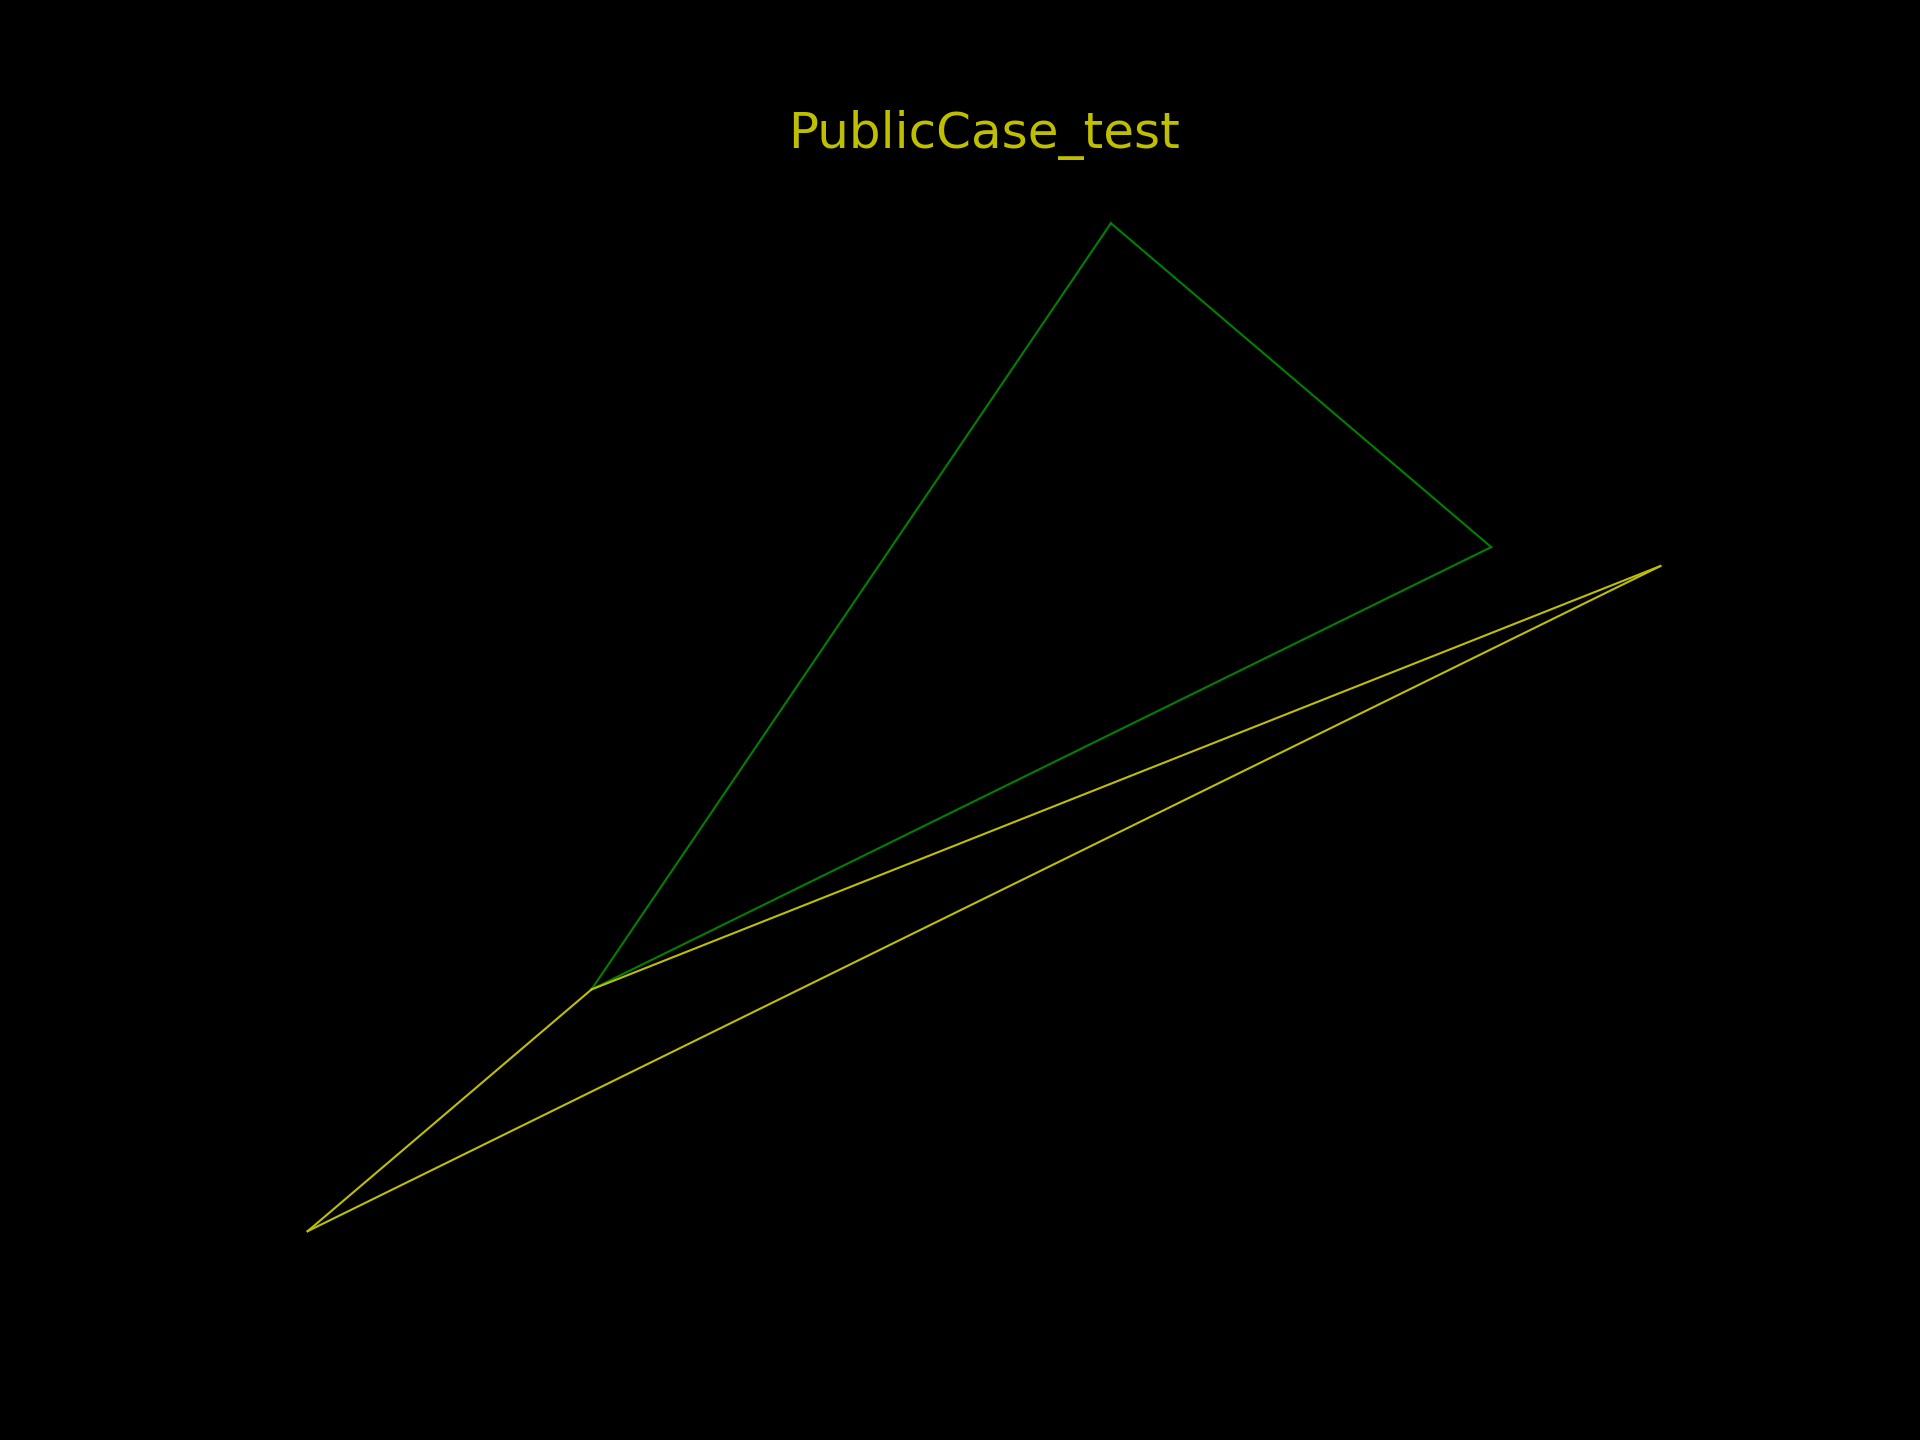
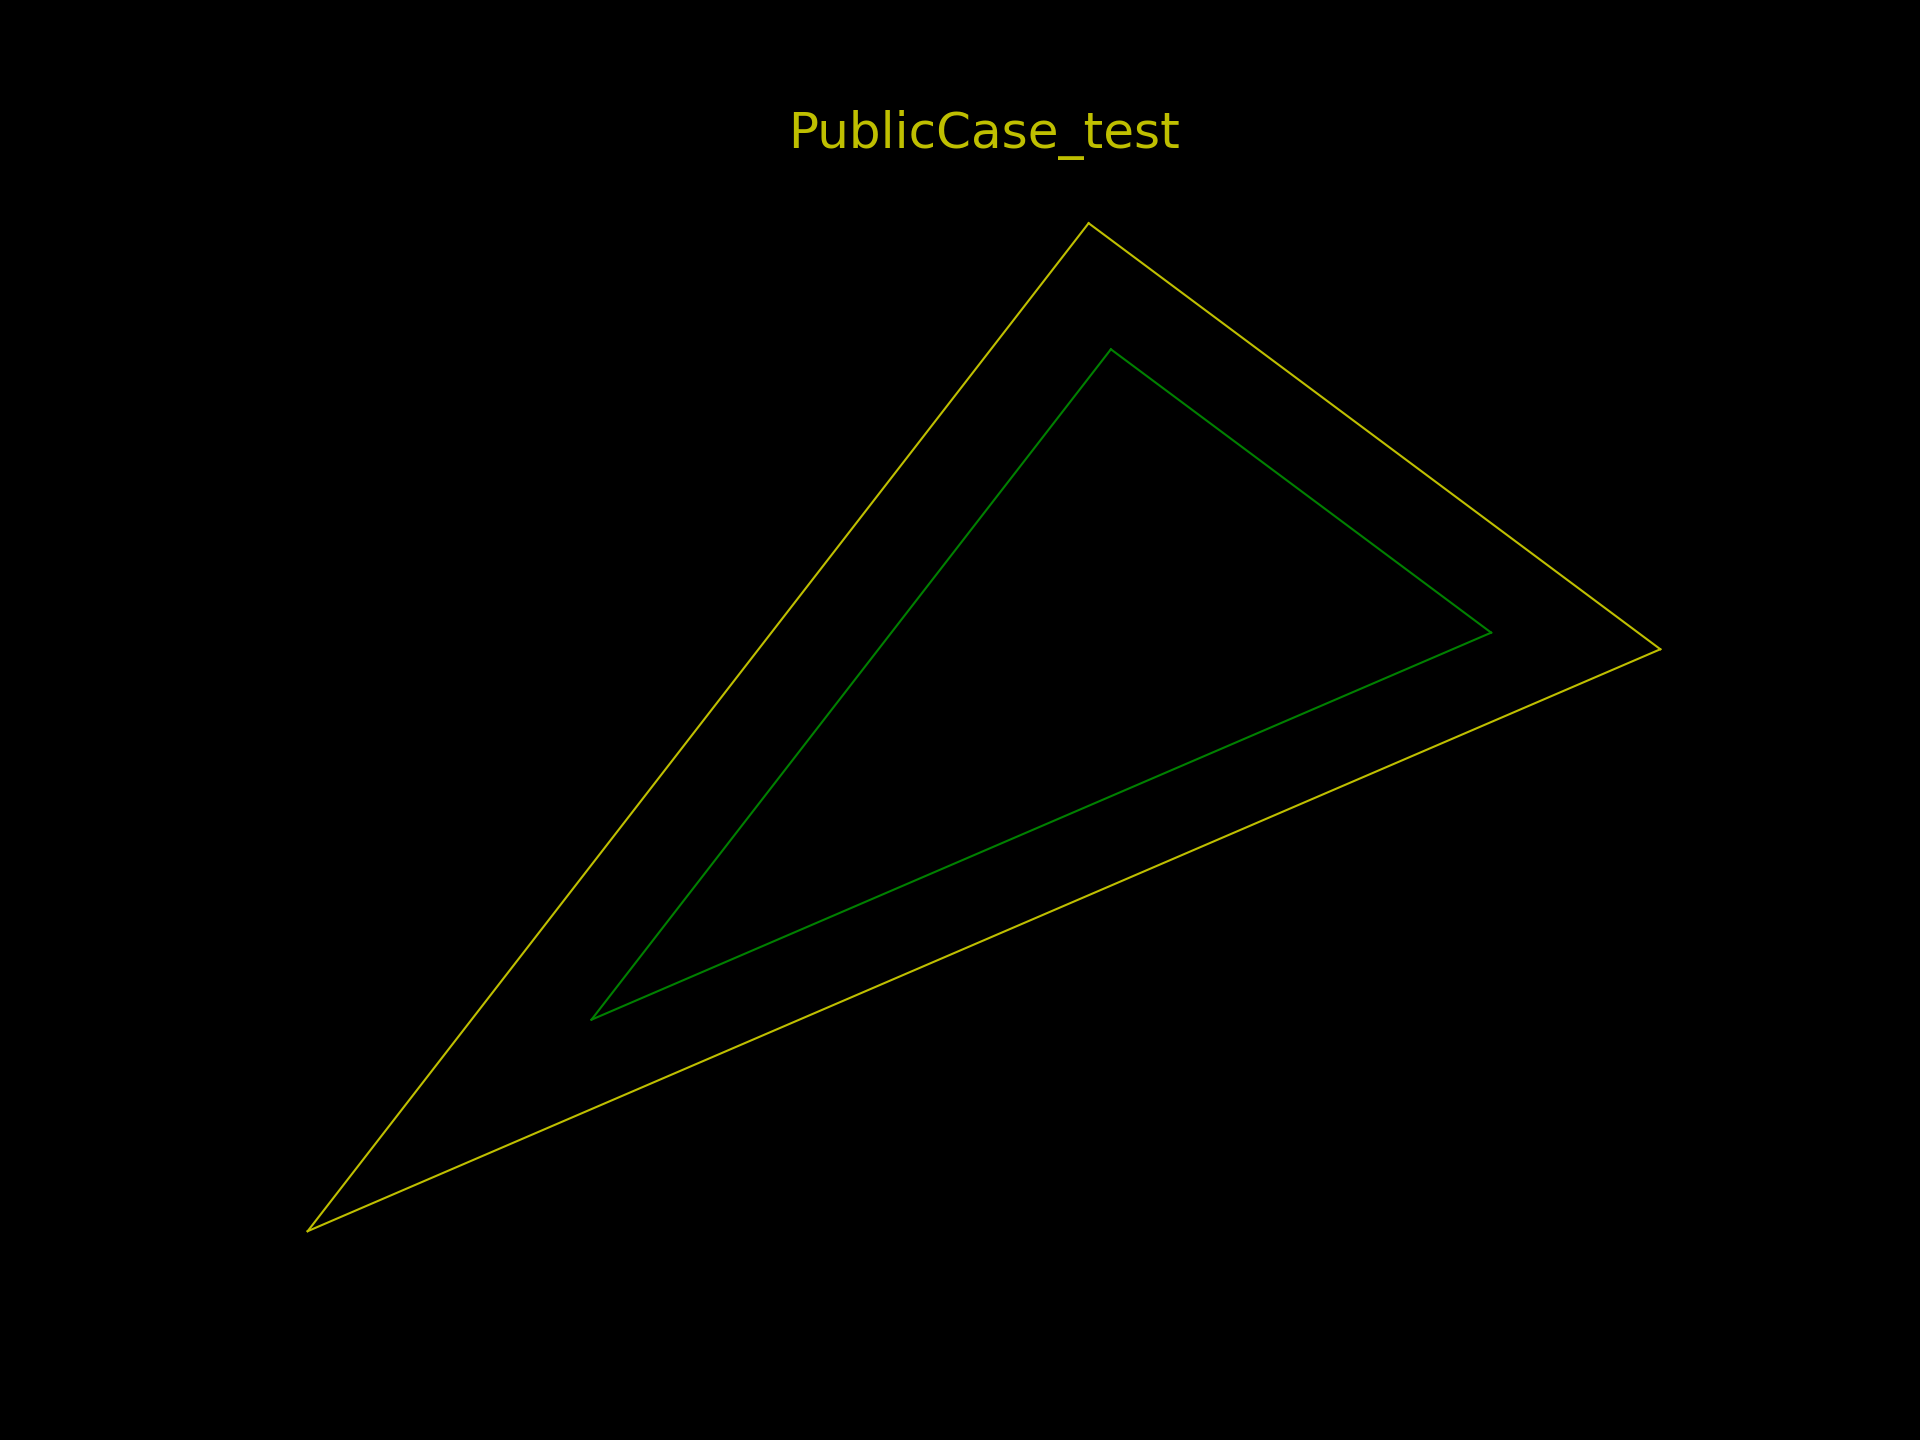
correction of the angle of the lines

diff --git a/main.cpp b/main.cpp
@@ -270,6 +270,19 @@ vector<segment> Print_Silkscreen(const vector<segment> Assembly)
             second_line = Assembly[0];
         double first_angle = atan2(first_line.y2 - first_line.y1, first_line.x2 - first_line.x1);
         double second_angle = atan2(second_line.y2 - second_line.y1, second_line.x2 - second_line.x1);
+        if (Assembly_Points[i].x == first_line.x1)
+        {
+            first_angle -= PI;
+            if (first_angle < -PI)
+                first_angle += 2 * PI;
+        }
+        if (Assembly_Points[i].x == second_line.x1)
+        {
+            second_angle -= PI;
+            if (first_angle < -PI)
+                first_angle += 2 * PI;
+        }
+
         double Angle_Divided = (first_angle + second_angle) / 2;                    //角平分線的角度
         float Bisector_Slope = tan(Angle_Divided);                                  //角平分線
         double Point_Extend_Range = assemblygap / sin(Angle_Divided - first_angle); //點外擴距離
